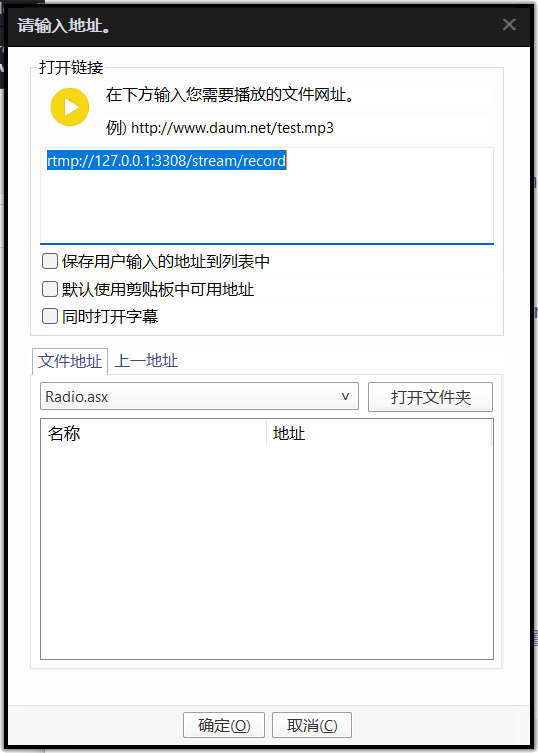
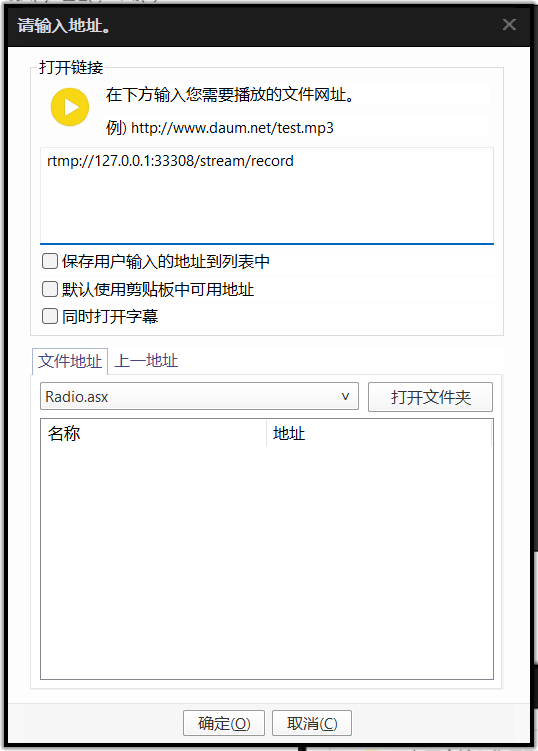
feat: 更新自述文件

diff --git a/README.md b/README.md
@@ -9,15 +9,15 @@ docker pull alfg/nginx-rtmp
 
 ### 创建并运行`nginx-rtmp`容器
 ```
-docker run -itd --name nginx-rtmp -p 3308:1935 alfg/nginx-rtmp
+docker run -itd --name nginx-rtmp -p 33308:1935 alfg/nginx-rtmp
 ```
 
 ### 推流（OBS Studio）
-以`rtmp://127.0.0.1:3308/stream/record`为例
+以`rtmp://127.0.0.1:33308/stream/record`为例
 
 服务器：
 ```
-rtmp://127.0.0.1:3308/stream
+rtmp://127.0.0.1:33308/stream
 ```
 
 串流密钥：
@@ -65,7 +65,7 @@ docker pull mysql:latest
 
 ### 创建并运行`mysql`容器
 ```
-docker run -itd --name mysql-test -p 33306:3306 -e MYSQL_ROOT_PASSWORD=123456 mysql
+docker run -itd --name mysql -p 33306:3306 -e MYSQL_ROOT_PASSWORD=123456 mysql
 ```
 
 ### 安装相关依赖
